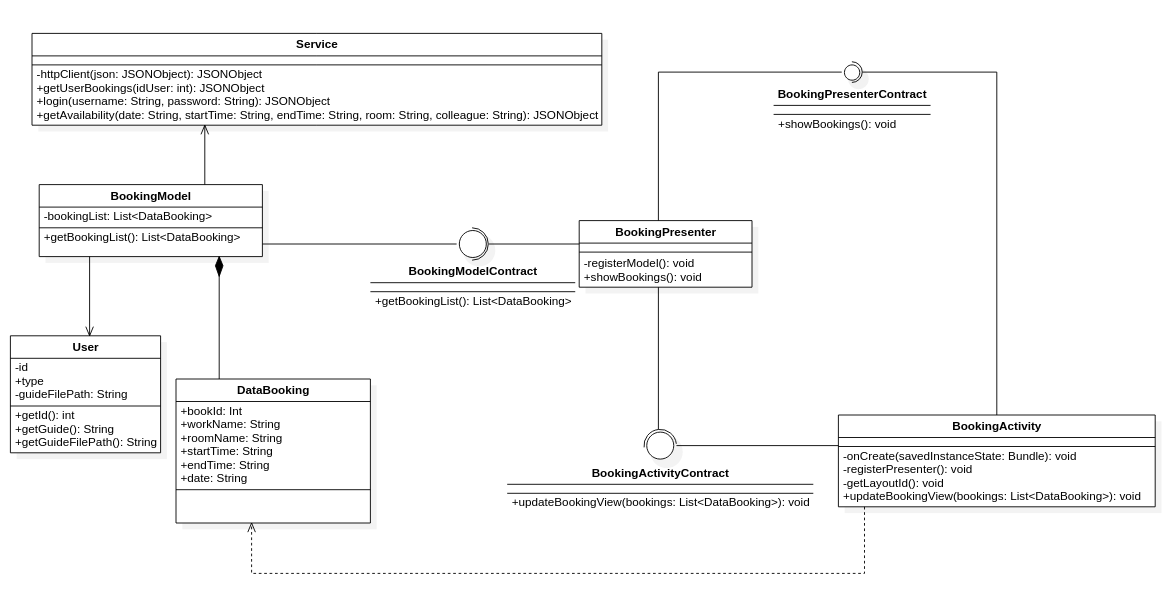
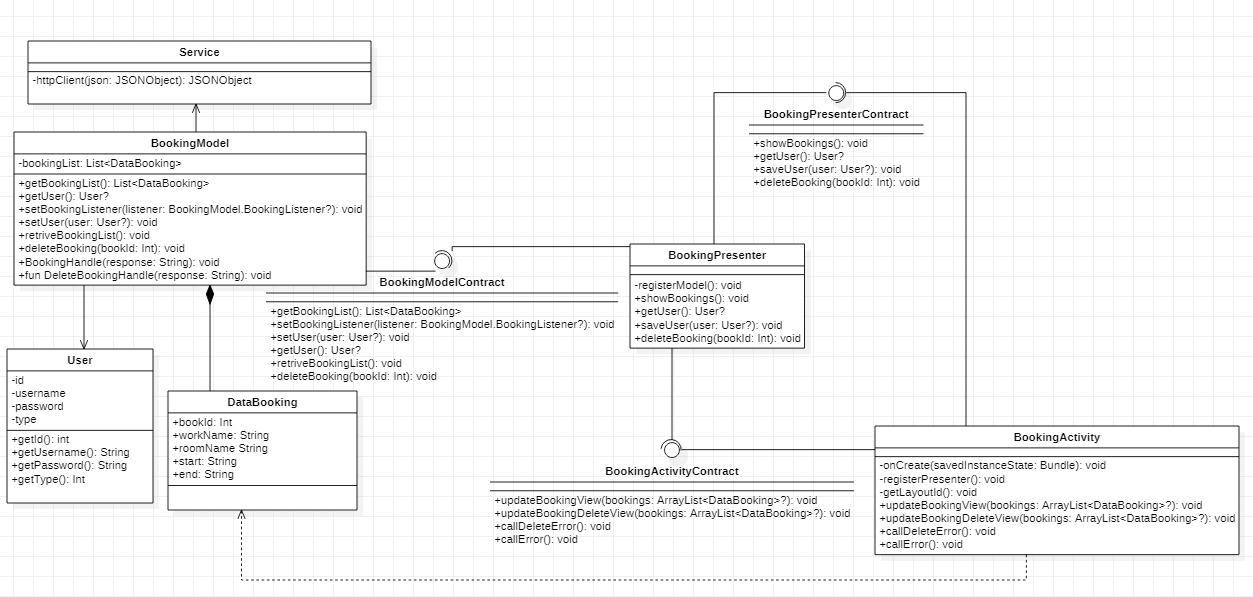
bookings class

Changed region(s): [[0.0, 0.0302, 0.8286, 0.8744], [0.399, 0.6633, 1.0, 0.9347]]

diff --git a/esterni/ManualeManutentore/res/sections/Apputenti.tex b/esterni/ManualeManutentore/res/sections/Apputenti.tex
@@ -345,9 +345,8 @@ In questa pagina verranno mostrate in una lista tutte le prenotazioni effettuate
 	\item bookId; 
 	\item workName; 
 	\item roomName; 
-	\item startTime; 
-	\item endTime; 
-	\item date. 
+	\item start; 
+	\item end. 
 \end{itemize}
 Nel caso non ci siano prenotazioni effettuate verrà mostrata una semplice stringa di testo con scritto: "Non ci sono prenotazioni effettuate".
 
@@ -356,7 +355,10 @@ La classe BookingActivity offre i seguenti metodi:
 	\item \textbf{onCreate(savedInstanceState:Bundle): void}: Si occupa della creazione della parte grafica visualizzata dall'utente; 
 	\item \textbf{getLayoutId(): void}: associa il rispettivo file in formato xml alla View;
 	\item \textbf{registerPresenter(): void}: associa il Presenter alla View;
-	\item \textbf{updateBookingView(in bookings:List<DataBooking>): void}: Si occupa di far visualizzare le prenotazioni di un utente in una lista se ci sono, altrimenti deve far visualizzare la stringa "Non ci sono prenotazioni effettuate".
+	\item \textbf{updateBookingView(bookings:List<DataBooking>): void}: Si occupa di far visualizzare le prenotazioni di un utente in una lista se ci sono;
+	\item \textbf{callError(): void}: Si occupa di far visualizzare la stringa "Non ci sono prenotazioni";
+	\item \textbf{updateBookingDeleteView(bookings:ArrayList<DataBooking>?): void}: Si occupa di aggiornare la vista nel caso una prenotazione sia eliminata premendo sul apposito bottone;
+	\item \textbf{callDeleteError(): void}: Si occupa di far apparire un messaggio di errore nel caso l'eliminazione della prenotazione non sia riuscita.
 \end{itemize}
 
 \subsection{Diagramma di sequenza}
